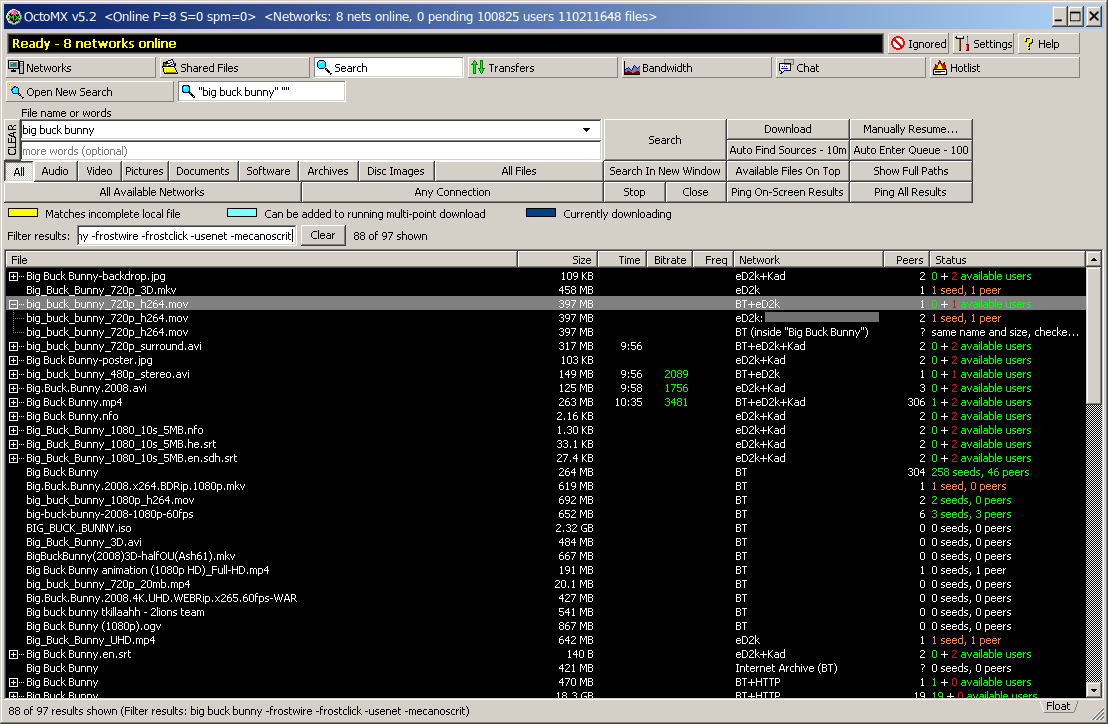
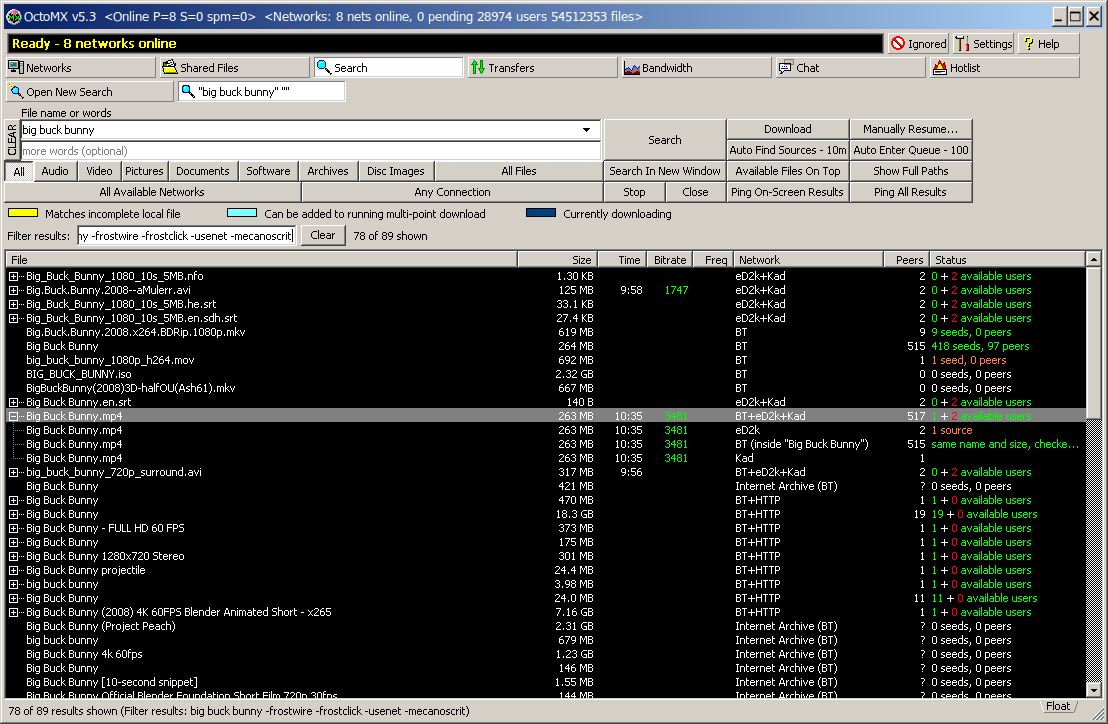
OctoMX 5.3: version and README pictures

diff --git a/src/ui/update_ui.h b/src/ui/update_ui.h
@@ -7,9 +7,9 @@
 // at most once a day unless updates/mode is "off", stays quiet unless a newer version that was not
 // skipped exists, and logs one line otherwise. What a newer release does depends on updates/mode:
 //   auto   (default) download it quietly, check the signature, unpack and check it next to the
-//          program, then the box "OctoMX 5.3 is ready to install" with Restart Now / Later / Skip
+//          program, then the box "OctoMX 5.4 is ready to install" with Restart Now / Later / Skip
 //          This Version (Later: installed when OctoMX is closed, a tray balloon says so once)
-//   ask    the box "OctoMX 5.3 is available" with Update Now (progress bar, then the same restart
+//   ask    the box "OctoMX 5.4 is available" with Update Now (progress bar, then the same restart
 //          question) / Remind Me Later / Skip This Version and the download page as a link
 //   notify the classic message box: Open Download Page / Remind Me Later / Skip This Version
 //   off    no check at start; Help ▸ Check for Updates... still asks
@@ -19,7 +19,7 @@
 // The install itself runs when OctoMX closes (finishOnExit(), called by main.cpp after the core has
 // shut down); after Restart Now the new version is started with the same options. At the next start
 // startupRecovery() finishes or undoes an interrupted swap and removes the old files; the first
-// start after an update shows "Updated to OctoMX 5.3" with a What's New link.
+// start after an update shows "Updated to OctoMX 5.4" with a What's New link.
 //
 // Network policy (tests and scripted runs never contact GitHub): the app sets On for a real core with
 // a user profile, IfUrlSet for a test or scripted run (MX_OS_ROOT is set), Off for
@@ -63,8 +63,8 @@ public:
     enum class State { Idle, Checking, Downloading, Preparing, Ready };
     struct Offer {
         Kind kind = Kind::Notify;
-        QString version;   // "5.3"
-        QString current;   // "5.2"
+        QString version;   // "5.4"
+        QString current;   // "5.3"
         QString notes;     // plain text excerpt
         QString pageUrl;   // what Open Download Page / What's New opens
         QString reason;    // why there is no automatic install (Notify), empty otherwise
@@ -88,11 +88,11 @@ public:
     bool startCheckDue() const;
     void scheduleStartCheck(int delayMs = -1);
     bool isChecking() const;
-    QString currentVersion() const;   // MX_VERSION_FULL, e.g. "5.2.0"
+    QString currentVersion() const;   // MX_VERSION_FULL, e.g. "5.3.0"
     QString mode() const;             // updates/mode: auto | ask | notify | off
     State state() const { return m_state; }
     QString readyVersion() const;     // the prepared update (State::Ready)
-    // one line for the About box: "OctoMX 5.2 is up to date" / "OctoMX 5.3 is available" / ...
+    // one line for the About box: "OctoMX 5.3 is up to date" / "OctoMX 5.4 is available" / ...
     QString statusLine() const;
 
     // show what a check with this answer would show (manual = the answers of Help ▸ Check for

diff --git a/src/ui/dialogs/about_dialog.cpp b/src/ui/dialogs/about_dialog.cpp
@@ -46,7 +46,7 @@ AboutDialog::AboutDialog(mx::Core *core, QWidget *parent) : QDialog(parent)
                            core->isMock() ? tr("\nDemo mode: no network connections are made.") : QString()));
     info->setObjectName(QStringLiteral("aboutText"));
     info->setGeometry(SR(56, 30, 450, 106));
-    // [upd-1] what the update check found, right of the title: "OctoMX 5.2 is up to date." / "... 5.3 is available ..."
+    // [upd-1] what the update check found, right of the title: "OctoMX 5.3 is up to date." / "... 5.4 is available ..."
     if (UpdateController *u = UpdateController::of(qobject_cast<MainWindow *>(parent))) {
         auto *upd = new QLabel(u->statusLine(), this);
         upd->setObjectName(QStringLiteral("aboutUpdateStatus"));

diff --git a/src/api/mx/types.h b/src/api/mx/types.h
@@ -16,10 +16,10 @@
 // [post-1] defined by the top-level CMakeLists.txt from project(OctoMX VERSION ...); these
 // fallbacks only serve a build without it
 #ifndef MX_VERSION_FULL
-#define MX_VERSION_FULL "5.2.0"
+#define MX_VERSION_FULL "5.3.0"
 #endif
 #ifndef MX_VERSION_STRING
-#define MX_VERSION_STRING "5.2"
+#define MX_VERSION_STRING "5.3"
 #endif
 
 namespace mx {

diff --git a/docs/UI_SPEC.md b/docs/UI_SPEC.md
@@ -1473,7 +1473,7 @@ Fidelity checks must treat these as intentional (the classic forms stay reachabl
   "Load Standard ... Defaults" buttons choose the theme and reset every colour.
 * **Help button** [post-1]: a click pops a small menu `About OctoMX...` (bold default) / `Check for
   Updates...` (F1 still opens About directly); the About box has `Check for Updates...` left of OK.
-  The update box is a classic message box titled `OctoMX`: "OctoMX 5.3 is available (you have 5.2)."
+  The update box is a classic message box titled `OctoMX`: "OctoMX 5.4 is available (you have 5.3)."
   with the first lines of the release notes as plain text and `Open Download Page` / `Remind Me Later`
   / `Skip This Version`. Settings ▸ Miscellaneous ▸ System Integration has an `Updates` group with
   "Check for a new version at start (at most once a day)" (updates/checkAtStart, default on).
@@ -1485,19 +1485,19 @@ Fidelity checks must treat these as intentional (the classic forms stay reachabl
   downloading a new version` (ask) / `Only tell me, I install it myself` (notify, the classic box) / `Do
   not check at start` (off). A profile with the earlier check box off gets `off` (migrated once).
   auto: the start check downloads a newer signed release quietly, then a small box titled `OctoMX`
-  (information icon, plain text) says "OctoMX 5.3 is ready to install (you have 5.2)." with the
+  (information icon, plain text) says "OctoMX 5.4 is ready to install (you have 5.3)." with the
   first lines of the release notes, "The download was checked against the OctoMX release
   signature.", with running downloads "Your 3 running downloads continue after the restart.", and
   `Restart Now` (default) / `Later` / `Skip This Version`; Later (also Escape or the close button)
   installs it when OctoMX is closed and a tray balloon says so once. ask, and always for Help ▸ Check
-  for Updates...: "OctoMX 5.3 is available (you have 5.2)." with `Update Now` (a box with a progress
+  for Updates...: "OctoMX 5.4 is available (you have 5.3)." with `Update Now` (a box with a progress
   bar, `Hide` / `Cancel`, then the ready box) / `Remind Me Later` / `Skip This Version` and `Open
   Download Page` as a link below the text. When the program cannot install a release itself (not a
   published package, a folder it cannot write, a release without signature, a download or check that
   failed), the classic box appears with the reason above the last line. The first start after an update
-  shows "Updated to OctoMX 5.3 (from 5.2)." with `What's New` (the release page) / `OK`. The About
-  box has one line under the description: "OctoMX 5.2 is up to date." / "OctoMX 5.3 is available
-  (you have 5.2)." / "... is ready to install ..." / "..., not checked for updates yet.".
+  shows "Updated to OctoMX 5.4 (from 5.3)." with `What's New` (the release page) / `OK`. The About
+  box has one line under the description: "OctoMX 5.3 is up to date." / "OctoMX 5.4 is available
+  (you have 5.3)." / "... is ready to install ..." / "..., not checked for updates yet.".
   Deviations: these boxes are not part of WinMX 3.53 (it had no updater); they are drawn as classic
   message boxes with our own buttons. Deliberate choices: the staging folder is inside the program
   folder (`.new-<version>`, same volume, only the program folder must be writable) instead of next
@@ -1684,7 +1684,7 @@ Fidelity checks must treat these as intentional (the classic forms stay reachabl
   BitTorrent piece hashes)`. With the setting `search/mergeByNameAndSize` off (default on), only plain
   files with equal normalised names merge (a bundle never meets a non-bundle).
 * **The name OctoMX** [ren-1] (owner: "as a name I choose OctoMX"; "OctoMX is the only version and
-  name we use"): every place where the program names itself says OctoMX (title `OctoMX v5.2`,
+  name we use"): every place where the program names itself says OctoMX (title `OctoMX v5.3`,
   `About OctoMX...`, `Exit OctoMX`, message box titles, the `OctoMX Peer Network` tabs and pages, the
   network name `OctoMX` in the Network columns, the default room `OctoMX Lobby`). Where it describes
   itself it says that its interface is in the style of the classic WinMX, with the statement that it

diff --git a/README.md b/README.md
@@ -36,7 +36,7 @@ responsibility; the authors are not responsible for the content exchanged with i
 start the program asks you to accept these terms before it connects to any network. See
 [Legal](#legal).
 
-Version 5.2 for Windows 10/11 (64-bit) and Linux (x86_64). Project page:
+Version 5.3 for Windows 10/11 (64-bit) and Linux (x86_64). Project page:
 https://github.com/robtacconelli/OctoMX
 
 > **Licence:** OctoMX is free software under the **GNU General Public License v3.0 or later**
@@ -55,24 +55,23 @@ The Networks page, the first page you see, with the networks connected:
 
 ![Networks page: Ready, 8 networks online](docs/screenshots/networks.png)
 
-A search for Big Buck Bunny, answered by BitTorrent, eD2k, Kad, Gnutella and the Internet Archive.
-The same file found on several networks is one row (here `BT+eD2k`, opened to show where it was
+A search for Big Buck Bunny, answered by BitTorrent, eD2k, Kad and the Internet Archive. The same
+file found on several networks is one row (here `BT+eD2k+Kad`, opened to show where it was
 found); the "Filter results" field narrows the list:
 
 ![Search results for Big Buck Bunny from several networks, one merged row opened, filtered](docs/screenshots/search.png)
 
-That row downloading: one download fed by BitTorrent peers and by the Internet Archive's HTTP
-mirror at the same time (the eD2k source of the row could not be reached in this session), with
-one line per source and per network. The bar in the Status column is a map of the file: blue
-parts are on disk and verified, green ones are arriving right now. In the classic dark colours
-and in the light theme:
+That row downloading: one download fed by a BitTorrent swarm and a Kad source at the same time,
+with one line per source and per network. The bar in the Status column is a map of the file: blue
+parts are on disk and verified, green ones are arriving right now. A download limit of 450 KB/s
+is set (title bar). In the classic dark colours and in the light theme:
 
 ![Transfers page: one download with a line per network and the map of its parts, dark theme](docs/screenshots/transfers.png)
 
 ![The same Transfers page in the light theme](docs/screenshots/transfers-light.png)
 
-The Bandwidth page after that download, with a download and an upload limit set near the end
-(the dashed lines):
+The Bandwidth page during that download. After the first seconds a download limit and then an
+upload limit were set (the dashed lines): the rate runs along them:
 
 ![Bandwidth page: incoming and outgoing graphs with the limit lines](docs/screenshots/bandwidth.png)
 
@@ -89,8 +88,8 @@ built-in demo data:
 
 | | |
 |---|---|
-| **Windows** | Unzip `OctoMX-5.2-win64.zip` anywhere and double-click `octomx.exe`. Nothing is installed. Windows Firewall may ask whether OctoMX may accept connections. |
-| **Linux** | `tar xf OctoMX-5.2-linux-x86_64.tar.xz` and run `OctoMX-5.2-linux-x86_64/octomx`. Qt does not need to be installed. Run `./install-desktop-entry.sh` once for a menu entry and icon. |
+| **Windows** | Unzip `OctoMX-5.3-win64.zip` anywhere and double-click `octomx.exe`. Nothing is installed. Windows Firewall may ask whether OctoMX may accept connections. |
+| **Linux** | `tar xf OctoMX-5.3-linux-x86_64.tar.xz` and run `OctoMX-5.3-linux-x86_64/octomx`. Qt does not need to be installed. Run `./install-desktop-entry.sh` once for a menu entry and icon. |
 
 `SHA256SUMS` next to the archives has their checksums.
 
